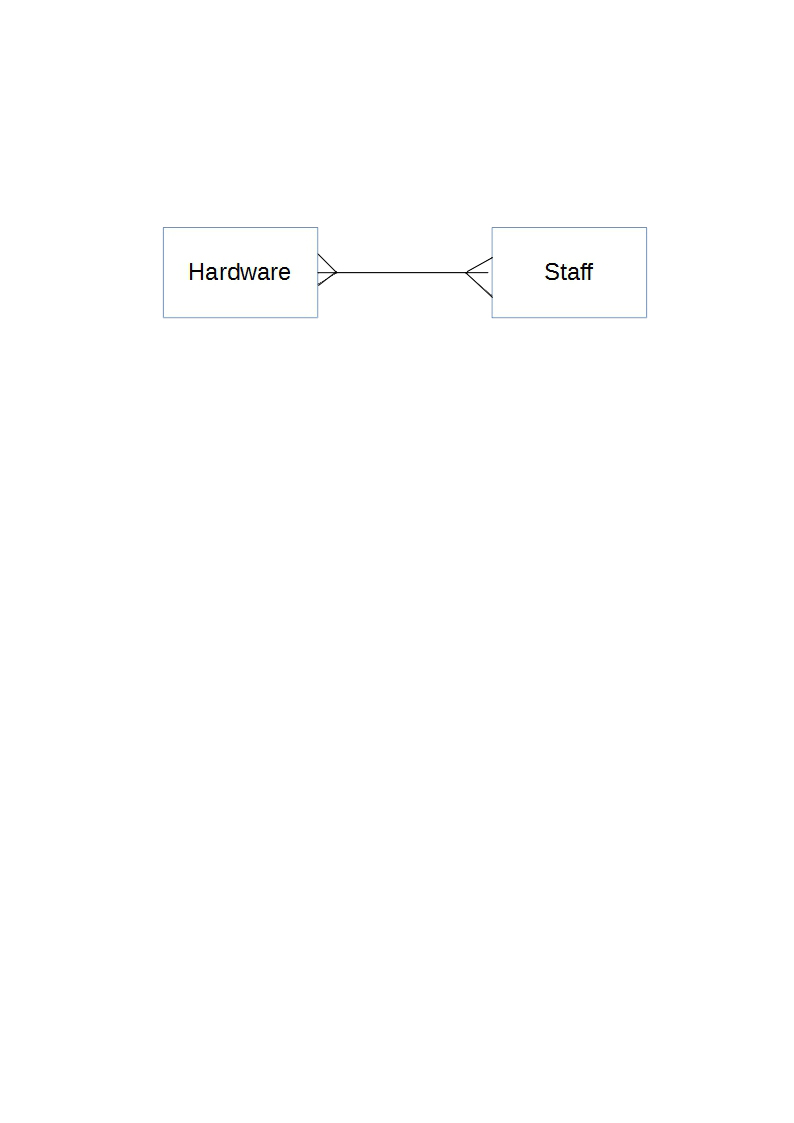
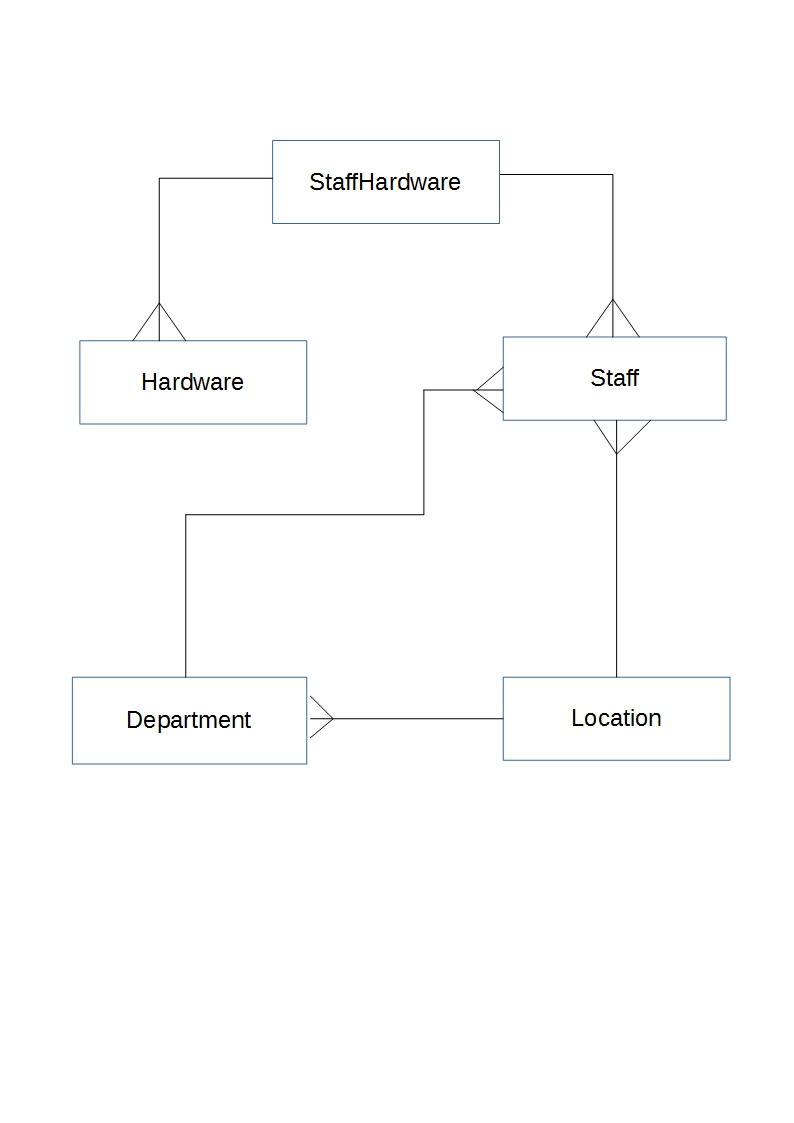
Object stuff left to do.

diff --git a/Coursework/Analysis/analysis.tex b/Coursework/Analysis/analysis.tex
@@ -310,10 +310,9 @@ IT Staff Member & IMEI Number (if phone)           &EH37000781        & Database
 \includegraphics[width=\textwidth]{ManagerReadOnly.jpg}
 \caption{This shows how managers also have read only access to check their department.} \label{Page1Interview}
 \end{figure}
-
+\newpage
 
 \subsubsection{Data dictionary}
-
 
 \begin{center}
 \begin{tabular}{|p{4cm}|p{1.3cm}|p{1.1cm}|p{1.7cm}|p{1.7cm}|p{2cm}|}
@@ -325,23 +324,28 @@ StaffLastName                       & String                                  & 
 StaffDepartment                     & String                                  & 1-30                                 & Length                                   & Financing             &                       \\ \hline
 StaffJobTitle			& String				& 1-30			& Length			& Finance Manager		&		\\ \hline
 StaffLocation                       & String                                  & 1-20                                 & Length                                   & Orwell                &                       \\ \hline
+StaffHardware	& String				&1-50				& Length				& iPhone 5S         & Shows the allocation          \\ \hline 
 HardwareID                          & Integer                                 & 1-200                                & Range Validation \textgreater0 and  \textless=300                      & 121                   & Unique to each device \\ \hline
 HardwareDevice                      & String                                  & 1-25                                 & Length                                   & Phone                 &                       \\ \hline
 HardwareMake                        & String                                  & 1-25                                 & Length                                   & iPhone                &                       \\ \hline
 HardwareModel                       & String                                  & 1-25                                 & Length                                   & 5S                    &                       \\ \hline
-HardwareCost                       & Float                                 & 1-4                              & Range Validation \textgreater0 and \textless=2000                                    & £500                  &                       \\ \hline
+HardwareCost                       & Float                                 & 1-2000                             & Range Validation \textgreater0 and \textless=2000                                    & £500                  &                       \\ \hline
 HardwareWarranty                    & Boolean                                 &                                      & Presence Check                           & True                  &                       \\ \hline
 HardwareWarrantyPeriod              & String                                  & 1-10                                 & Length                                   & 3 Years               &                       \\ \hline
 HardwareSerialNumber                & String                                  & 1-50                                 & Length                                   & 12307321              &                       \\ \hline
 HardwarePurchaseDate                & Date                                  &                                  & Format                                   & 11/03/2015              &                       \\ \hline
 HardwareIMEI                & String                                  &          1-50                        & Length                                   & EH37000781               & Only required for phones                      \\ \hline
 HardwarePhoneNumber                & String                                  &1-11                                  & Length                                   & 07927551125              &   Only required for phones                      \\ \hline
+DepartmentID &Integer				& 1-4				&Range Validation \textgreater0 and \textless=75		& 24		&	\\ \hline
+DepartmentName & String				& 1-30				& Length		& Financing		&	\\ \hline
+LocationID &Integer				& 1-4				&Range Validation \textgreater0 and \textless=20		& 	24	&		\\ \hline
+LocationName & String				& 1-30				& Length		&	Orwell	 &  \\ \hline
 \end{tabular}
 \end{center}
 
 \subsubsection{Volumetrics}
 
-Initially my system will store 350 different staff records, I chose this amount because Chranj said he has around 300 staff in his company he has to store as soon as the system is available (Interview question 5). Since he said "around 300" it shows he is fairly unsure exactly how many, so 350 means that the system will provide room for anymore staff that were not counted in the interview. The company does not hire people everyday and since this database will only be storing staff members, 350 records gives a fair bit of room to enable Chranj (and other IT staff members) to get used to the system. 300 hardware devices will be able to be stored, which is definately more than enough but provides a lot of room for new devices that get released (as hardware is released fairly often) the company wish to use.
+Initially my system will store 350 different staff records, I chose this amount because Chranj said he has around 300 staff in his company he has to store as soon as the system is available (Interview question 5). Since he said "around 300" it shows he is fairly unsure exactly how many, so 350 means that the system will provide room for anymore staff that were not counted in the interview. The company does not hire people everyday and since this database will only be storing staff members, 350 records gives a fair bit of room to enable Chranj (and other IT staff members) to get used to the system. 200 hardware devices will be able to be stored, which is definately more than enough but provides a lot of room for new devices that get released (as hardware is released fairly often) the company wish to use. Lastly the link table will be added which stores the foreign keys from hardware and staff as well as its own primary key meaning 3 integers are stored.
 
 If each colleague on the new proposed system has 6 fields of data stored about them (see Data Dictionary) the calculations would be:
 
@@ -359,10 +363,9 @@ There are 130 bytes per record.
 There are 350 records so:
 130 x 350 = 45,500 bytes (45.5 KB)
 
-The Integer field will go up to 350. Each number up to 255 is one byte and each number over 255 is 2 bytes. There are 95 numbers over 255 in this database so: 
+The Integer field will go up to 350. Because each number over 255 is 2 bytes you can change it between each field, therefore all will be stored as 2 bytes.
 
-95 x 2 = 190 bytes
-190 bytes + 255 bytes = 445 bytes
+350 x 2 = 700 bytes
 
 445 bytes + 45.5KB =  45.945 KB (45.9 KB) 
 
@@ -374,14 +377,41 @@ The Hardware device table has the following fields:
 
 2 fields are integer (1 has a max of 2000 (2 bytes), the other has goes up to 200 (1 byte))
 
-1 field is Date (3 bytes per date)
+1 field is Date (ISO format string is yyyy-mm-dd (14 bytes per date))
 
 1 field is Boolean (1 byte per value)
 
 One record has 196 + 2 + 1 + 3 + 1 = 203 bytes
 200 x 203 = 40600 bytes or 40.6 KB
 
-Therefore the whole database needs a minimum of (45.945 KB + 40.6 KB = 86.54500 KB) a rounded value of 86.5 KB.
+The location table has the following fields:
+
+1 string field (length = 30bytes)
+1 integer (up to 20 (1 byte)
+
+One record has 30 + 1 = 31 bytes
+20 records are stored so:
+31 x 20 = 620 bytes
+
+The department table has the following fields:
+
+1 string field (length = 30bytes)
+2 integer (up to 75 (1 byte) and 20 (1 byte)
+
+One record has 30 + 1 + 1 = 32 bytes
+75 records are stored so:
+32 x 75 = 2400 bytes (2.4kb)
+
+The link table (StaffHardware)
+
+3 Integers (max of 200 (1 byte), 350 (2 bytes) and 350 (2 bytes)):
+1 + 1 + 2 = 3 bytes per record:
+350 records stored:
+3 x 350 = 1050 bytes (1.05 KB)
+
+\
+
+\textbf{Therefore the whole database needs a minimum of (45,945 + 40,600 + 620 + 2400 + 1050 = 90615 Bytes - 90.615 KB) a rounded value of 90.6 KB.}
 
 
 \section{Objectives}
@@ -431,25 +461,52 @@ Therefore the whole database needs a minimum of (45.945 KB + 40.6 KB = 86.54500 
 \hspace*{-2cm}
 \vspace*{5cm}
 \setlength{\abovecaptionskip}{-320pt plus 3pt minus 2pt}
-\includegraphics[width=1.2\textwidth]{ERDiagram.png}
+\includegraphics[width=1.2\textwidth]{ERDiagram.jpg}
 \caption{The ER Diagram is basic. Since the IT Staff and Line Managers also need their own hardware devices they are classified under the Staff table. All staff have many to many relationships with hardware as they can have a number of phones, printers, monitors etc. at one time.} \label{ER Diagram}
 \end{figure}
 
 \subsection{Entity Descriptions}
 
-Staff(\underline{StaffID},\textit{HardwareID}, FirstName, LastName, Department, Location)
+\begin{center}
+Staff  (\underline{StaffID}, StaffFirstName, StaffLastName, StaffJobTitle, \textit{DepartmentID},\\ \textit{ LocationID})
+\end{center}
 
-Hardware(\underline{HardwareID}, HardwareDevice, Make, Model, Cost, Warranty, \\WarrantyPeriod, SerialNumber, PurchaseDate)
+\
+
+\begin{center}
+Hardware  (\underline{HardwareID}, HardwareDevice, HardwareMake, HardwareModel,\\ HardwareCost, HardwareWarranty, HardwareWarrantyPeriod,\\ HardwareSerialNumber, HardwarePurchaseDate, HardwareIMEINumber, \\HardwarePhoneNumber)
+\end{center}
+
+\
+
+\begin{center}
+StaffHardware  (\underline{StaffHardwareID}, \textit{ StaffID}, \textit{ HardwareID})
+\end{center}
+
+\
+
+\begin{center}
+Department  (\underline{DepartmentID}, DepartmentName, \textit{ LocationID})
+\end{center}
+
+\
+
+\begin{center}
+Location  (\underline{LocationID}, LocationName)
+\end{center}
+
+
 
 \section{Object Analysis}
 
 \subsection{Object Listing}
 
 \begin{itemize}
-\item Colleagues
+\item Staff
 \item Hardware
-\item Line Mangager
-\item IT Staff
+\item StaffHardware
+\item Department
+\item Location
 \end{itemize}
 
 \subsection{Relationship diagrams}
